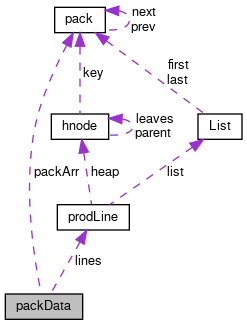
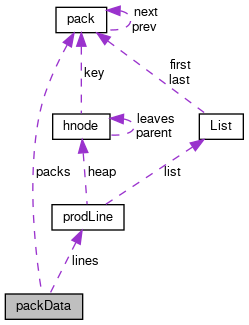
deploy: e36e02ef73ee24c5488687998a2ea951a8e3830e

diff --git a/list_8h_source.html b/list_8h_source.html
@@ -73,9 +73,9 @@ $(function() {
 <div class="line"><a name="l00002"></a><span class="lineno">    2</span>&#160;<span class="preprocessor">#define LIST_H</span></div>
 <div class="line"><a name="l00003"></a><span class="lineno">    3</span>&#160; </div>
 <div class="line"><a name="l00004"></a><span class="lineno">    4</span>&#160;<span class="preprocessor">#include &lt;stdlib.h&gt;</span></div>
-<div class="line"><a name="l00005"></a><span class="lineno">    5</span>&#160; </div>
-<div class="line"><a name="l00007"></a><span class="lineno"><a class="line" href="structpack.html">    7</a></span>&#160;<span class="keyword">typedef</span> <span class="keyword">struct </span><a class="code" href="structpack.html">pack</a>{</div>
-<div class="line"><a name="l00008"></a><span class="lineno">    8</span>&#160;    <span class="keywordtype">int</span> val; <span class="comment">//height</span></div>
+<div class="line"><a name="l00005"></a><span class="lineno">    5</span>&#160;<span class="preprocessor">#include &lt;string.h&gt;</span></div>
+<div class="line"><a name="l00006"></a><span class="lineno">    6</span>&#160; </div>
+<div class="line"><a name="l00008"></a><span class="lineno"><a class="line" href="structpack.html">    8</a></span>&#160;<span class="keyword">typedef</span> <span class="keyword">struct </span><a class="code" href="structpack.html">pack</a>{</div>
 <div class="line"><a name="l00009"></a><span class="lineno">    9</span>&#160;    <span class="keywordtype">int</span> avail; <span class="comment">//available?</span></div>
 <div class="line"><a name="l00010"></a><span class="lineno">   10</span>&#160;    <span class="keyword">struct </span><a class="code" href="structpack.html">pack</a>* prev;</div>
 <div class="line"><a name="l00011"></a><span class="lineno">   11</span>&#160;    <span class="keyword">struct </span><a class="code" href="structpack.html">pack</a>* next;</div>
@@ -102,51 +102,54 @@ $(function() {
 <div class="line"><a name="l00033"></a><span class="lineno">   33</span>&#160;    <span class="keywordtype">int</span> N_Package;</div>
 <div class="line"><a name="l00034"></a><span class="lineno">   34</span>&#160;    <span class="keywordtype">int</span> N_Lines;</div>
 <div class="line"><a name="l00035"></a><span class="lineno">   35</span>&#160;    <a class="code" href="structprodLine.html">prodLine</a>* lines;</div>
-<div class="line"><a name="l00036"></a><span class="lineno">   36</span>&#160;    <a class="code" href="structpack.html">pack</a>* packArr;</div>
+<div class="line"><a name="l00036"></a><span class="lineno">   36</span>&#160;    <a class="code" href="structpack.html">pack</a>* packs;</div>
 <div class="line"><a name="l00037"></a><span class="lineno">   37</span>&#160;} <a class="code" href="structpackData.html">packData</a>;</div>
 <div class="line"><a name="l00038"></a><span class="lineno">   38</span>&#160; </div>
-<div class="line"><a name="l00039"></a><span class="lineno">   39</span>&#160;<span class="comment">// Initiation and Deletion</span></div>
-<div class="line"><a name="l00040"></a><span class="lineno">   40</span>&#160; </div>
-<div class="line"><a name="l00048"></a><span class="lineno">   48</span>&#160;<a class="code" href="structpackData.html">packData</a> init_Problem(<span class="keywordtype">int</span> n, <span class="keywordtype">int</span> l);</div>
-<div class="line"><a name="l00049"></a><span class="lineno">   49</span>&#160;<span class="keywordtype">void</span> kill_Problem(<a class="code" href="structpackData.html">packData</a>);</div>
-<div class="line"><a name="l00050"></a><span class="lineno">   50</span>&#160; </div>
-<div class="line"><a name="l00051"></a><span class="lineno">   51</span>&#160;<span class="comment">// Data management</span></div>
-<div class="line"><a name="l00052"></a><span class="lineno">   52</span>&#160;<a class="code" href="structpack.html">pack</a> PushPack(<a class="code" href="structpackData.html">packData</a>, <span class="keywordtype">int</span> i);</div>
-<div class="line"><a name="l00053"></a><span class="lineno">   53</span>&#160;<a class="code" href="structpack.html">pack</a> MergeLines(<a class="code" href="structpackData.html">packData</a>, <span class="keywordtype">int</span> dst, <span class="keywordtype">int</span> src);</div>
-<div class="line"><a name="l00054"></a><span class="lineno">   54</span>&#160; </div>
-<div class="line"><a name="l00055"></a><span class="lineno">   55</span>&#160;<span class="comment">//Pop</span></div>
-<div class="line"><a name="l00056"></a><span class="lineno">   56</span>&#160;<a class="code" href="structpack.html">pack</a> PopFirstPack(<a class="code" href="structpackData.html">packData</a>, <span class="keywordtype">int</span> i);</div>
-<div class="line"><a name="l00057"></a><span class="lineno">   57</span>&#160;<a class="code" href="structpack.html">pack</a> PopLastPack(<a class="code" href="structpackData.html">packData</a>, <span class="keywordtype">int</span> i);</div>
-<div class="line"><a name="l00058"></a><span class="lineno">   58</span>&#160;<a class="code" href="structpack.html">pack</a> PopMaxPack(<a class="code" href="structpackData.html">packData</a>, <span class="keywordtype">int</span> i);</div>
-<div class="line"><a name="l00059"></a><span class="lineno">   59</span>&#160; </div>
-<div class="line"><a name="l00060"></a><span class="lineno">   60</span>&#160;<span class="comment">// Peak Data</span></div>
-<div class="line"><a name="l00061"></a><span class="lineno">   61</span>&#160;<a class="code" href="structpack.html">pack</a> PeakFirstPack(<a class="code" href="structpackData.html">packData</a>, <span class="keywordtype">int</span> i);</div>
-<div class="line"><a name="l00062"></a><span class="lineno">   62</span>&#160;<a class="code" href="structpack.html">pack</a> PeakLastPack(<a class="code" href="structpackData.html">packData</a>, <span class="keywordtype">int</span> i);</div>
-<div class="line"><a name="l00063"></a><span class="lineno">   63</span>&#160;<a class="code" href="structpack.html">pack</a> PeakMaxPack(<a class="code" href="structpackData.html">packData</a>, <span class="keywordtype">int</span> i);</div>
-<div class="line"><a name="l00064"></a><span class="lineno">   64</span>&#160; </div>
+<div class="line"><a name="l00039"></a><span class="lineno">   39</span>&#160; </div>
+<div class="line"><a name="l00040"></a><span class="lineno">   40</span>&#160;<span class="comment">// Initiation and Deletion</span></div>
+<div class="line"><a name="l00041"></a><span class="lineno">   41</span>&#160; </div>
+<div class="line"><a name="l00049"></a><span class="lineno">   49</span>&#160;<a class="code" href="structpackData.html">packData</a> init_packData(<span class="keywordtype">int</span> n, <span class="keywordtype">int</span> l);</div>
+<div class="line"><a name="l00050"></a><span class="lineno">   50</span>&#160;<span class="keywordtype">void</span> kill_packData(<a class="code" href="structpackData.html">packData</a>);</div>
+<div class="line"><a name="l00051"></a><span class="lineno">   51</span>&#160; </div>
+<div class="line"><a name="l00052"></a><span class="lineno">   52</span>&#160;<span class="comment">// Data management</span></div>
+<div class="line"><a name="l00053"></a><span class="lineno">   53</span>&#160;<a class="code" href="structpack.html">pack</a> PushPack(<a class="code" href="structpackData.html">packData</a>, <span class="keywordtype">int</span> i);</div>
+<div class="line"><a name="l00054"></a><span class="lineno">   54</span>&#160;<a class="code" href="structpack.html">pack</a> MergeLines(<a class="code" href="structpackData.html">packData</a>, <span class="keywordtype">int</span> dst, <span class="keywordtype">int</span> src);</div>
+<div class="line"><a name="l00055"></a><span class="lineno">   55</span>&#160; </div>
+<div class="line"><a name="l00056"></a><span class="lineno">   56</span>&#160;<span class="comment">//Pop</span></div>
+<div class="line"><a name="l00057"></a><span class="lineno">   57</span>&#160;<a class="code" href="structpack.html">pack</a> PopFirstPack(<a class="code" href="structpackData.html">packData</a>, <span class="keywordtype">int</span> i);</div>
+<div class="line"><a name="l00058"></a><span class="lineno">   58</span>&#160;<a class="code" href="structpack.html">pack</a> PopLastPack(<a class="code" href="structpackData.html">packData</a>, <span class="keywordtype">int</span> i);</div>
+<div class="line"><a name="l00059"></a><span class="lineno">   59</span>&#160;<a class="code" href="structpack.html">pack</a> PopMaxPack(<a class="code" href="structpackData.html">packData</a>, <span class="keywordtype">int</span> i);</div>
+<div class="line"><a name="l00060"></a><span class="lineno">   60</span>&#160; </div>
+<div class="line"><a name="l00061"></a><span class="lineno">   61</span>&#160;<span class="comment">// Peak Data</span></div>
+<div class="line"><a name="l00062"></a><span class="lineno">   62</span>&#160;<a class="code" href="structpack.html">pack</a> PeakFirstPack(<a class="code" href="structpackData.html">packData</a>, <span class="keywordtype">int</span> i);</div>
+<div class="line"><a name="l00063"></a><span class="lineno">   63</span>&#160;<a class="code" href="structpack.html">pack</a> PeakLastPack(<a class="code" href="structpackData.html">packData</a>, <span class="keywordtype">int</span> i);</div>
+<div class="line"><a name="l00064"></a><span class="lineno">   64</span>&#160;<a class="code" href="structpack.html">pack</a> PeakMaxPack(<a class="code" href="structpackData.html">packData</a>, <span class="keywordtype">int</span> i);</div>
 <div class="line"><a name="l00065"></a><span class="lineno">   65</span>&#160; </div>
-<div class="line"><a name="l00066"></a><span class="lineno">   66</span>&#160;<span class="comment">// Heap operation</span></div>
-<div class="line"><a name="l00067"></a><span class="lineno">   67</span>&#160;<span class="keywordtype">void</span> _insertHeap(<a class="code" href="structhnode.html">hnode</a>* root);</div>
-<div class="line"><a name="l00068"></a><span class="lineno">   68</span>&#160;<span class="keywordtype">void</span> _mergeHeap(<a class="code" href="structhnode.html">hnode</a>* rootDst, <a class="code" href="structhnode.html">hnode</a>* rootSrc);</div>
-<div class="line"><a name="l00069"></a><span class="lineno">   69</span>&#160;<span class="keywordtype">void</span> _extractMaxHeap(<a class="code" href="structhnode.html">hnode</a>* root);</div>
-<div class="line"><a name="l00070"></a><span class="lineno">   70</span>&#160;<span class="keywordtype">void</span> _killHeap(<a class="code" href="structhnode.html">hnode</a>* root);</div>
-<div class="line"><a name="l00071"></a><span class="lineno">   71</span>&#160; </div>
-<div class="line"><a name="l00072"></a><span class="lineno">   72</span>&#160;<span class="comment">//Linked operation</span></div>
-<div class="line"><a name="l00073"></a><span class="lineno">   73</span>&#160;<span class="keywordtype">void</span> _insertlist(<a class="code" href="structList.html">List</a>);</div>
-<div class="line"><a name="l00074"></a><span class="lineno">   74</span>&#160;<span class="keywordtype">void</span> _mergelist(<a class="code" href="structList.html">List</a>);</div>
-<div class="line"><a name="l00075"></a><span class="lineno">   75</span>&#160;<span class="keywordtype">void</span> _poplist(<a class="code" href="structList.html">List</a>);</div>
-<div class="line"><a name="l00076"></a><span class="lineno">   76</span>&#160; </div>
+<div class="line"><a name="l00066"></a><span class="lineno">   66</span>&#160; </div>
+<div class="line"><a name="l00067"></a><span class="lineno">   67</span>&#160;<span class="comment">// Heap operation</span></div>
+<div class="line"><a name="l00068"></a><span class="lineno">   68</span>&#160;<span class="keywordtype">void</span> _insertHeap(<a class="code" href="structhnode.html">hnode</a>* root);</div>
+<div class="line"><a name="l00069"></a><span class="lineno">   69</span>&#160;<span class="keywordtype">void</span> _mergeHeap(<a class="code" href="structhnode.html">hnode</a>* rootDst, <a class="code" href="structhnode.html">hnode</a>* rootSrc);</div>
+<div class="line"><a name="l00070"></a><span class="lineno">   70</span>&#160;<span class="keywordtype">void</span> _extractMaxHeap(<a class="code" href="structhnode.html">hnode</a>* root);</div>
+<div class="line"><a name="l00071"></a><span class="lineno">   71</span>&#160;<span class="keywordtype">void</span> _killHeap(<a class="code" href="structhnode.html">hnode</a>* root);</div>
+<div class="line"><a name="l00072"></a><span class="lineno">   72</span>&#160; </div>
+<div class="line"><a name="l00073"></a><span class="lineno">   73</span>&#160;<span class="comment">//Linked operation</span></div>
+<div class="line"><a name="l00074"></a><span class="lineno">   74</span>&#160;<span class="keywordtype">void</span> _insertlist(<a class="code" href="structList.html">List</a>);</div>
+<div class="line"><a name="l00075"></a><span class="lineno">   75</span>&#160;<span class="keywordtype">void</span> _mergelist(<a class="code" href="structList.html">List</a>);</div>
+<div class="line"><a name="l00076"></a><span class="lineno">   76</span>&#160;<span class="keywordtype">void</span> _poplist(<a class="code" href="structList.html">List</a>);</div>
 <div class="line"><a name="l00077"></a><span class="lineno">   77</span>&#160; </div>
 <div class="line"><a name="l00078"></a><span class="lineno">   78</span>&#160; </div>
-<div class="line"><a name="l00079"></a><span class="lineno">   79</span>&#160; </div>
-<div class="line"><a name="l00080"></a><span class="lineno">   80</span>&#160; </div>
-<div class="line"><a name="l00081"></a><span class="lineno">   81</span>&#160; </div>
+<div class="line"><a name="l00079"></a><span class="lineno">   79</span>&#160;<span class="comment">//Struct</span></div>
+<div class="line"><a name="l00080"></a><span class="lineno">   80</span>&#160;<a class="code" href="structpack.html">pack</a> getNullPack(<span class="keywordtype">void</span>);</div>
+<div class="line"><a name="l00081"></a><span class="lineno">   81</span>&#160;<a class="code" href="structprodLine.html">prodLine</a> getNullProdLine(<span class="keywordtype">void</span>);</div>
 <div class="line"><a name="l00082"></a><span class="lineno">   82</span>&#160; </div>
-<div class="line"><a name="l00083"></a><span class="lineno">   83</span>&#160;<span class="preprocessor">#endif LIST_H</span></div>
+<div class="line"><a name="l00083"></a><span class="lineno">   83</span>&#160; </div>
+<div class="line"><a name="l00084"></a><span class="lineno">   84</span>&#160; </div>
+<div class="line"><a name="l00085"></a><span class="lineno">   85</span>&#160; </div>
+<div class="line"><a name="l00086"></a><span class="lineno">   86</span>&#160;<span class="preprocessor">#endif LIST_H</span></div>
 <div class="ttc" id="astructList_html"><div class="ttname"><a href="structList.html">List</a></div><div class="ttdef"><b>Definition:</b> list.h:14</div></div>
 <div class="ttc" id="astructhnode_html"><div class="ttname"><a href="structhnode.html">hnode</a></div><div class="ttdef"><b>Definition:</b> list.h:19</div></div>
 <div class="ttc" id="astructpackData_html"><div class="ttname"><a href="structpackData.html">packData</a></div><div class="ttdef"><b>Definition:</b> list.h:32</div></div>
-<div class="ttc" id="astructpack_html"><div class="ttname"><a href="structpack.html">pack</a></div><div class="ttdef"><b>Definition:</b> list.h:7</div></div>
+<div class="ttc" id="astructpack_html"><div class="ttname"><a href="structpack.html">pack</a></div><div class="ttdef"><b>Definition:</b> list.h:8</div></div>
 <div class="ttc" id="astructprodLine_html"><div class="ttname"><a href="structprodLine.html">prodLine</a></div><div class="ttdef"><b>Definition:</b> list.h:26</div></div>
 </div><!-- fragment --></div><!-- contents -->
 <!-- start footer part -->

diff --git a/structpackData.html b/structpackData.html
@@ -74,10 +74,10 @@ Collaboration diagram for packData:</div>
 <div class="center"><img src="structpackData__coll__graph.png" border="0" usemap="#apackData_coll__map" alt="Collaboration graph"/></div>
 <map name="apackData_coll__map" id="apackData_coll__map">
 <area shape="rect" title=" " alt="" coords="5,293,83,320"/>
-<area shape="rect" href="structprodLine.html" title=" " alt="" coords="57,204,129,231"/>
-<area shape="rect" href="structhnode.html" title=" " alt="" coords="51,113,109,140"/>
-<area shape="rect" href="structpack.html" title=" " alt="" coords="55,7,105,33"/>
-<area shape="rect" href="structList.html" title=" " alt="" coords="198,113,242,140"/>
+<area shape="rect" href="structprodLine.html" title=" " alt="" coords="52,204,124,231"/>
+<area shape="rect" href="structhnode.html" title=" " alt="" coords="53,113,110,140"/>
+<area shape="rect" href="structpack.html" title=" " alt="" coords="56,7,107,33"/>
+<area shape="rect" href="structList.html" title=" " alt="" coords="199,113,243,140"/>
 </map>
 <center><span class="legend">[<a href="graph_legend.html">legend</a>]</span></center></div>
 <table class="memberdecls">
@@ -92,9 +92,9 @@ int&#160;</td><td class="memItemRight" valign="bottom"><b>N_Lines</b></td></tr>
 <tr class="memitem:a32da095c7fdacc7e2beef8a601873835"><td class="memItemLeft" align="right" valign="top"><a id="a32da095c7fdacc7e2beef8a601873835"></a>
 <a class="el" href="structprodLine.html">prodLine</a> *&#160;</td><td class="memItemRight" valign="bottom"><b>lines</b></td></tr>
 <tr class="separator:a32da095c7fdacc7e2beef8a601873835"><td class="memSeparator" colspan="2">&#160;</td></tr>
-<tr class="memitem:a534e216acf2ec9abf977d23faff35c90"><td class="memItemLeft" align="right" valign="top"><a id="a534e216acf2ec9abf977d23faff35c90"></a>
-<a class="el" href="structpack.html">pack</a> *&#160;</td><td class="memItemRight" valign="bottom"><b>packArr</b></td></tr>
-<tr class="separator:a534e216acf2ec9abf977d23faff35c90"><td class="memSeparator" colspan="2">&#160;</td></tr>
+<tr class="memitem:a3e7bcd0dd702f180779e142561784864"><td class="memItemLeft" align="right" valign="top"><a id="a3e7bcd0dd702f180779e142561784864"></a>
+<a class="el" href="structpack.html">pack</a> *&#160;</td><td class="memItemRight" valign="bottom"><b>packs</b></td></tr>
+<tr class="separator:a3e7bcd0dd702f180779e142561784864"><td class="memSeparator" colspan="2">&#160;</td></tr>
 </table>
 <hr/>The documentation for this struct was generated from the following file:<ul>
 <li>src/<a class="el" href="list_8h_source.html">list.h</a></li>

diff --git a/structpackData-members.html b/structpackData-members.html
@@ -71,7 +71,7 @@ $(function() {
   <tr bgcolor="#f0f0f0" class="even"><td class="entry"><b>lines</b> (defined in <a class="el" href="structpackData.html">packData</a>)</td><td class="entry"><a class="el" href="structpackData.html">packData</a></td><td class="entry"></td></tr>
   <tr bgcolor="#f0f0f0"><td class="entry"><b>N_Lines</b> (defined in <a class="el" href="structpackData.html">packData</a>)</td><td class="entry"><a class="el" href="structpackData.html">packData</a></td><td class="entry"></td></tr>
   <tr bgcolor="#f0f0f0" class="even"><td class="entry"><b>N_Package</b> (defined in <a class="el" href="structpackData.html">packData</a>)</td><td class="entry"><a class="el" href="structpackData.html">packData</a></td><td class="entry"></td></tr>
-  <tr bgcolor="#f0f0f0"><td class="entry"><b>packArr</b> (defined in <a class="el" href="structpackData.html">packData</a>)</td><td class="entry"><a class="el" href="structpackData.html">packData</a></td><td class="entry"></td></tr>
+  <tr bgcolor="#f0f0f0"><td class="entry"><b>packs</b> (defined in <a class="el" href="structpackData.html">packData</a>)</td><td class="entry"><a class="el" href="structpackData.html">packData</a></td><td class="entry"></td></tr>
 </table></div><!-- contents -->
 <!-- start footer part -->
 <hr class="footer"/><address class="footer"><small>

diff --git a/index.html b/index.html
@@ -167,6 +167,22 @@ Hints</h1>
 </li>
 </ul>
 <h1><a class="anchor" id="autotoc_md12"></a>
+Free a binary tree</h1>
+<div class="fragment"><div class="line">deallocate (node):</div>
+<div class="line">    //do nothing if passed a non-existent node</div>
+<div class="line">    if node is null</div>
+<div class="line">        return</div>
+<div class="line"> </div>
+<div class="line">    //now onto the recursion</div>
+<div class="line">    deallocate(left node)</div>
+<div class="line">    deallocate(right node)</div>
+<div class="line"> </div>
+<div class="line">    free node</div>
+</div><!-- fragment --><p>Ref: <a href="https://stackoverflow.com/questions/9181146/freeing-memory-of-a-binary-tree-c">stackoverflow</a></p>
+<h1><a class="anchor" id="autotoc_md13"></a>
+Returning a void function</h1>
+<p>Ref: <a href="https://www.cs.fsu.edu/~cop3014p/lectures/ch7/index.html">web</a></p>
+<h1><a class="anchor" id="autotoc_md14"></a>
 References</h1>
 <ol type="1">
 <li>Stack, Queue and Heap. [<a href="https://stephanosterburg.gitbook.io/scrapbook/coding/coding-interview/data-structures/heaps-stacks-queues">GitBook</a>] 2. </li>

diff --git a/structpack-members.html b/structpack-members.html
@@ -71,7 +71,6 @@ $(function() {
   <tr bgcolor="#f0f0f0" class="even"><td class="entry"><b>avail</b> (defined in <a class="el" href="structpack.html">pack</a>)</td><td class="entry"><a class="el" href="structpack.html">pack</a></td><td class="entry"></td></tr>
   <tr bgcolor="#f0f0f0"><td class="entry"><b>next</b> (defined in <a class="el" href="structpack.html">pack</a>)</td><td class="entry"><a class="el" href="structpack.html">pack</a></td><td class="entry"></td></tr>
   <tr bgcolor="#f0f0f0" class="even"><td class="entry"><b>prev</b> (defined in <a class="el" href="structpack.html">pack</a>)</td><td class="entry"><a class="el" href="structpack.html">pack</a></td><td class="entry"></td></tr>
-  <tr bgcolor="#f0f0f0"><td class="entry"><b>val</b> (defined in <a class="el" href="structpack.html">pack</a>)</td><td class="entry"><a class="el" href="structpack.html">pack</a></td><td class="entry"></td></tr>
 </table></div><!-- contents -->
 <!-- start footer part -->
 <hr class="footer"/><address class="footer"><small>

diff --git a/structpack.html b/structpack.html
@@ -81,9 +81,6 @@ Collaboration diagram for pack:</div>
 <table class="memberdecls">
 <tr class="heading"><td colspan="2"><h2 class="groupheader"><a name="pub-attribs"></a>
 Public Attributes</h2></td></tr>
-<tr class="memitem:a1c4fcd8e72e7415b78c38679827be83b"><td class="memItemLeft" align="right" valign="top"><a id="a1c4fcd8e72e7415b78c38679827be83b"></a>
-int&#160;</td><td class="memItemRight" valign="bottom"><b>val</b></td></tr>
-<tr class="separator:a1c4fcd8e72e7415b78c38679827be83b"><td class="memSeparator" colspan="2">&#160;</td></tr>
 <tr class="memitem:af427ec30efd9bb23aa23ef99cc2b3bae"><td class="memItemLeft" align="right" valign="top"><a id="af427ec30efd9bb23aa23ef99cc2b3bae"></a>
 int&#160;</td><td class="memItemRight" valign="bottom"><b>avail</b></td></tr>
 <tr class="separator:af427ec30efd9bb23aa23ef99cc2b3bae"><td class="memSeparator" colspan="2">&#160;</td></tr>
